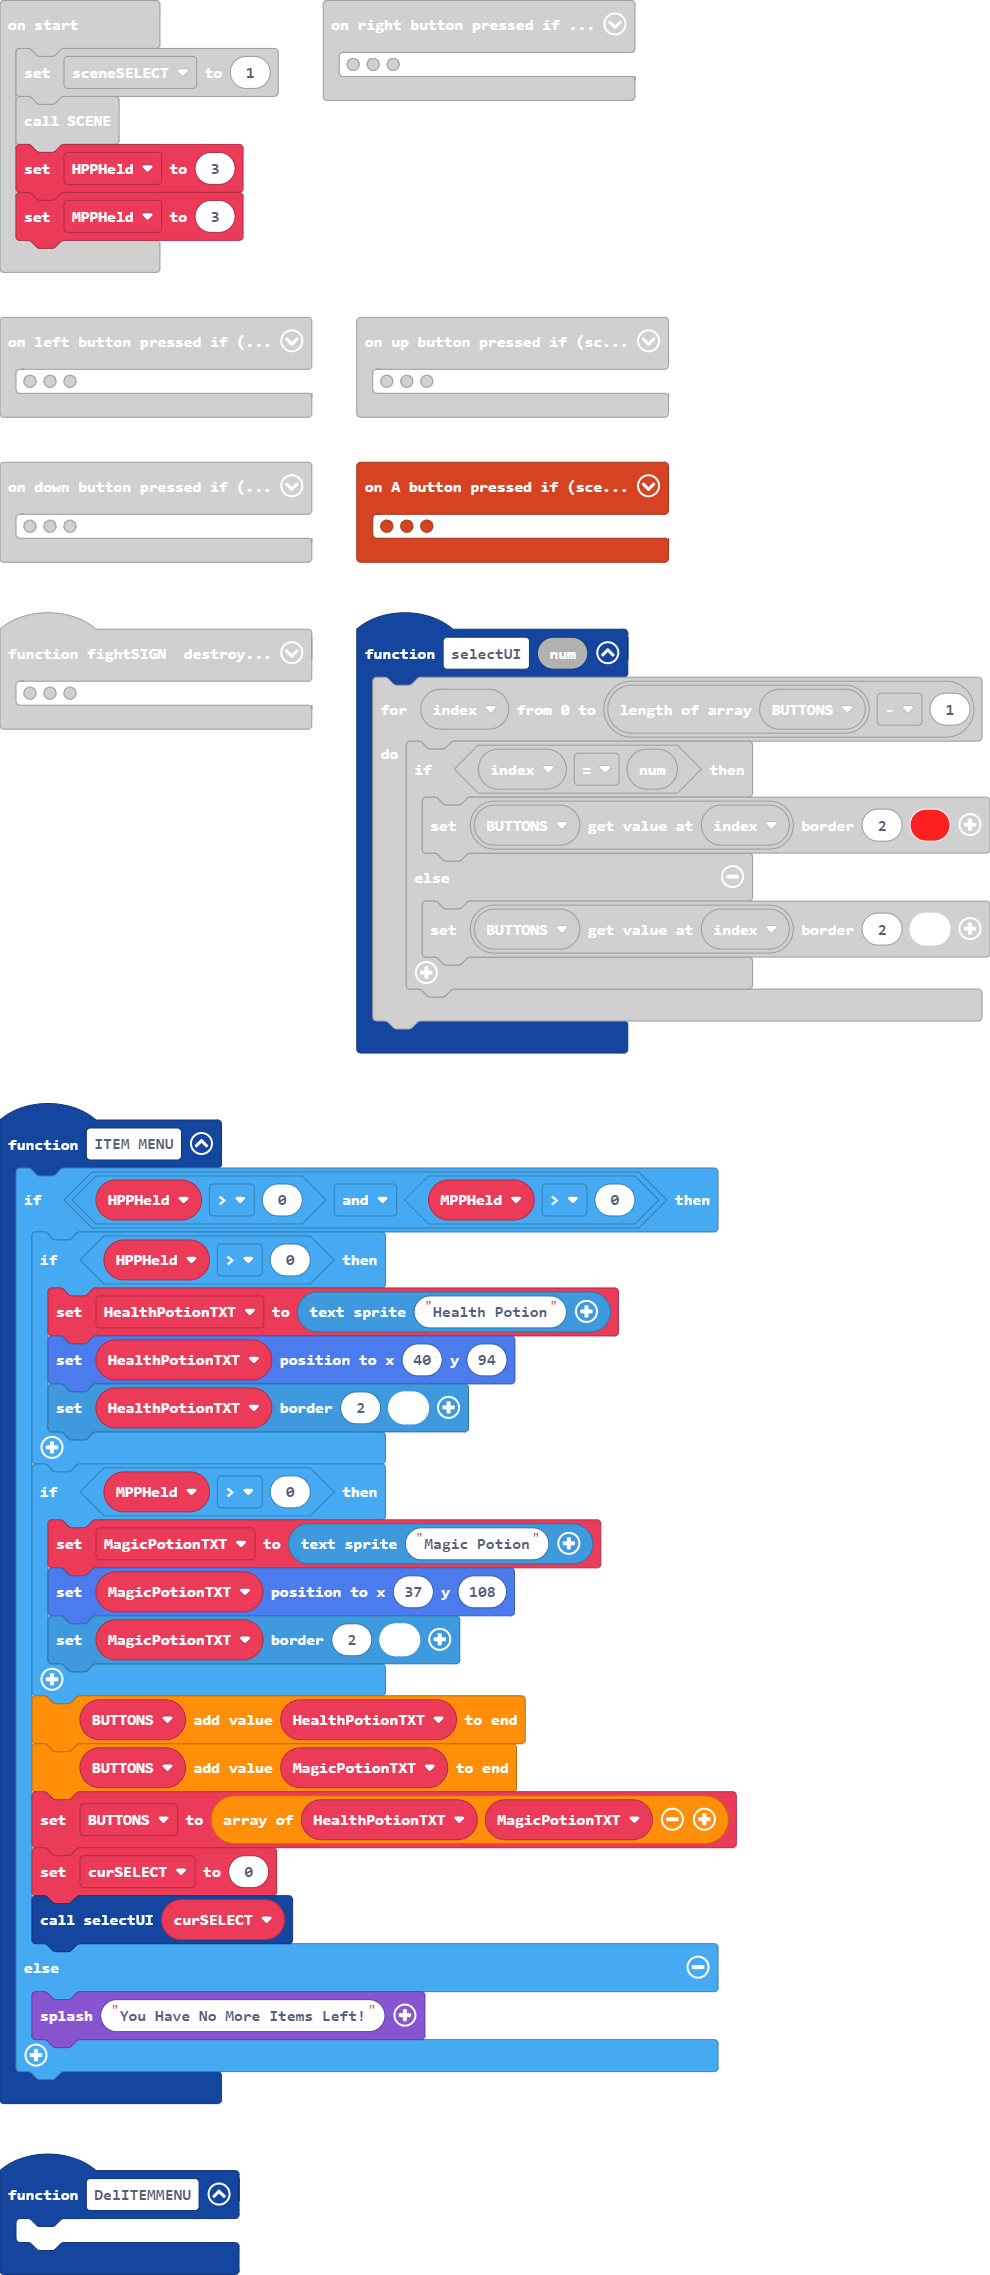
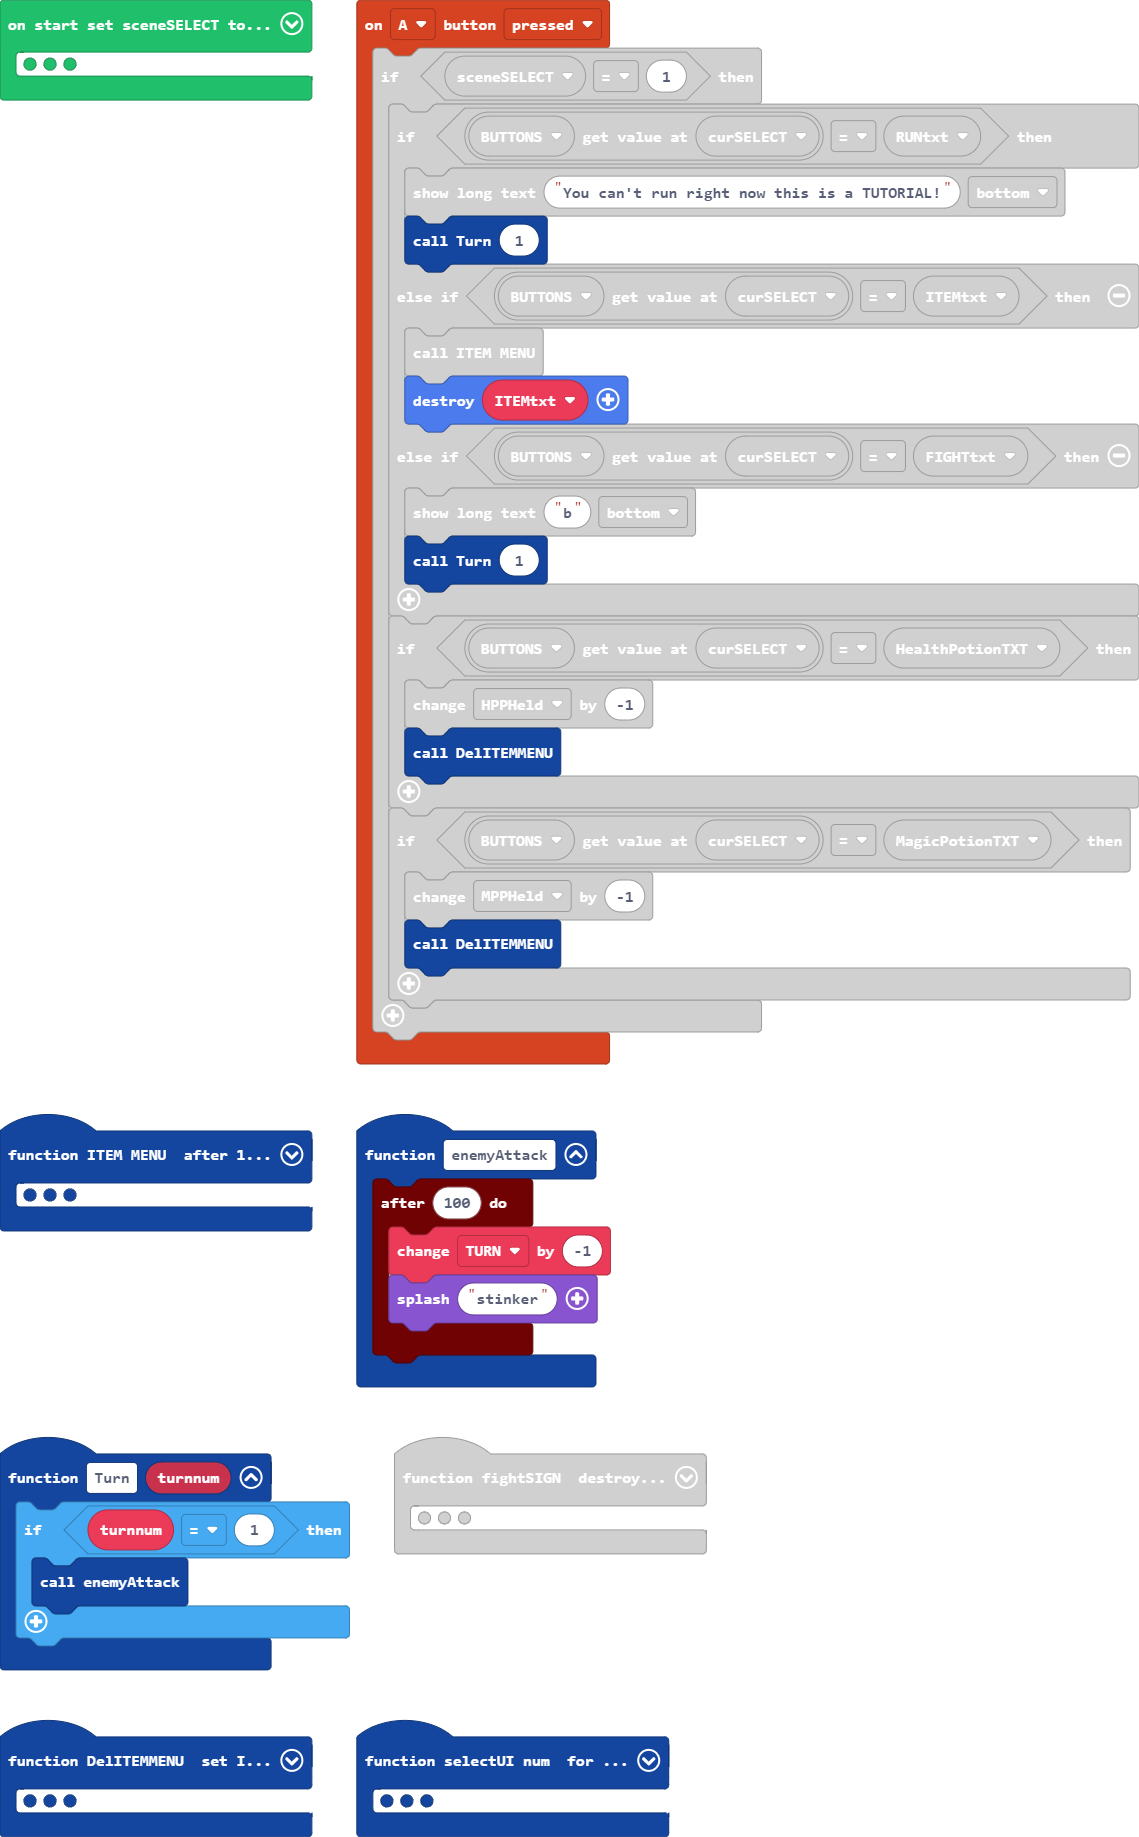
added turns

diff --git a/main.ts b/main.ts
@@ -149,8 +149,10 @@ function fightSIGN () {
         . . . . . f f f f f f . . . . . 
         `, SpriteKind.Player)
     MC.setPosition(30, 63)
+    pHP = 100
     signMONSTER = sprites.create(assets.image`signMONSTER`, SpriteKind.Player)
     signMONSTER.setPosition(115, 50)
+    signHealth = 300
     FIGHTtxt = textsprite.create("FIGHT")
     FIGHTtxt.setBorder(2, 1)
     FIGHTtxt.setPosition(70, 8)
@@ -172,23 +174,6 @@ function fightSIGN () {
     curSELECT = 0
     selectUI(curSELECT)
 }
-controller.A.onEvent(ControllerButtonEvent.Pressed, function () {
-    if (sceneSELECT == 1) {
-        if (BUTTONS[curSELECT] == RUNtxt) {
-            game.showLongText("You can't run right now this is a TUTORIAL!", DialogLayout.Bottom)
-        } else if (BUTTONS[curSELECT] == ITEMtxt) {
-            ITEM_MENU()
-        } else if (BUTTONS[curSELECT] == FIGHTtxt) {
-            game.showLongText("b", DialogLayout.Bottom)
-        }
-        if (BUTTONS[curSELECT] == HealthPotionTXT) {
-            HPPHeld += -1
-        }
-        if (BUTTONS[curSELECT] == MagicPotionTXT) {
-            MPPHeld += -1
-        }
-    }
-})
 controller.up.onEvent(ControllerButtonEvent.Pressed, function () {
     if (sceneSELECT == 0) {
         MC.setImage(img`
@@ -211,8 +196,48 @@ controller.up.onEvent(ControllerButtonEvent.Pressed, function () {
             `)
     }
 })
+controller.A.onEvent(ControllerButtonEvent.Pressed, function () {
+    if (sceneSELECT == 1) {
+        if (BUTTONS[curSELECT] == RUNtxt) {
+            game.showLongText("You can't run right now this is a TUTORIAL!", DialogLayout.Bottom)
+            Turn(1)
+        } else if (BUTTONS[curSELECT] == ITEMtxt) {
+            ITEM_MENU()
+            sprites.destroy(ITEMtxt)
+        } else if (BUTTONS[curSELECT] == FIGHTtxt) {
+            game.showLongText("b", DialogLayout.Bottom)
+            Turn(1)
+        }
+        if (BUTTONS[curSELECT] == HealthPotionTXT) {
+            HPPHeld += -1
+            DelITEMMENU()
+        }
+        if (BUTTONS[curSELECT] == MagicPotionTXT) {
+            MPPHeld += -1
+            DelITEMMENU()
+        }
+    }
+})
+function enemyAttack () {
+    timer.after(100, function () {
+        TURN += -1
+        game.splash("stinker")
+    })
+}
+function Turn (turnnum: number) {
+    if (turnnum == 1) {
+        enemyAttack()
+    }
+}
 function DelITEMMENU () {
-	
+    ITEMtxt = textsprite.create("ITEM")
+    ITEMtxt.setBorder(2, 1)
+    ITEMtxt.setPosition(38, 8)
+    sprites.destroy(HealthPotionTXT)
+    sprites.destroy(MagicPotionTXT)
+    BUTTONS = [RUNtxt, ITEMtxt, FIGHTtxt]
+    curSELECT = 0
+    Turn(1)
 }
 function SCENE () {
     if (sceneSELECT == 0) {
@@ -222,25 +247,33 @@ function SCENE () {
     }
 }
 function ITEM_MENU () {
-    if (HPPHeld > 0 && MPPHeld > 0) {
-        if (HPPHeld > 0) {
-            HealthPotionTXT = textsprite.create("Health Potion")
-            HealthPotionTXT.setPosition(40, 94)
-            HealthPotionTXT.setBorder(2, 1)
+    timer.after(100, function () {
+        BUTTONS.shift()
+        BUTTONS.shift()
+        BUTTONS.shift()
+        if (HPPHeld > 0 || MPPHeld > 0) {
+            if (HPPHeld > 0) {
+                HealthPotionTXT = textsprite.create("Health Potion")
+                HealthPotionTXT.setPosition(40, 94)
+                HealthPotionTXT.setBorder(2, 1)
+                BUTTONS.push(HealthPotionTXT)
+            }
+            if (MPPHeld > 0) {
+                MagicPotionTXT = textsprite.create("Magic Potion")
+                MagicPotionTXT.setPosition(37, 108)
+                MagicPotionTXT.setBorder(2, 1)
+                BUTTONS.push(MagicPotionTXT)
+            }
+            curSELECT = 0
+            selectUI(curSELECT)
+        } else {
+            game.splash("You Have No More Items Left!")
+            BUTTONS = [RUNtxt, FIGHTtxt]
+            FIGHTtxt.setPosition(41, 8)
+            curSELECT = 0
+            selectUI(curSELECT)
         }
-        if (MPPHeld > 0) {
-            MagicPotionTXT = textsprite.create("Magic Potion")
-            MagicPotionTXT.setPosition(37, 108)
-            MagicPotionTXT.setBorder(2, 1)
-        }
-        BUTTONS.push(HealthPotionTXT)
-        BUTTONS.push(MagicPotionTXT)
-        BUTTONS = [HealthPotionTXT, MagicPotionTXT]
-        curSELECT = 0
-        selectUI(curSELECT)
-    } else {
-        game.splash("You Have No More Items Left!")
-    }
+    })
 }
 function selectUI (num: number) {
     for (let index = 0; index <= BUTTONS.length - 1; index++) {
@@ -369,6 +402,7 @@ controller.down.onEvent(ControllerButtonEvent.Pressed, function () {
     }
 })
 let SIGN: Sprite = null
+let TURN = 0
 let MagicPotionTXT: TextSprite = null
 let HealthPotionTXT: TextSprite = null
 let curSELECT = 0
@@ -378,12 +412,14 @@ let HEALTHBAR: StatusBarSprite = null
 let RUNtxt: TextSprite = null
 let ITEMtxt: TextSprite = null
 let FIGHTtxt: TextSprite = null
+let signHealth = 0
 let signMONSTER: Sprite = null
+let pHP = 0
 let MC: Sprite = null
 let MPPHeld = 0
 let HPPHeld = 0
 let sceneSELECT = 0
-sceneSELECT = 1
+sceneSELECT = 0
 SCENE()
 HPPHeld = 3
 MPPHeld = 3
